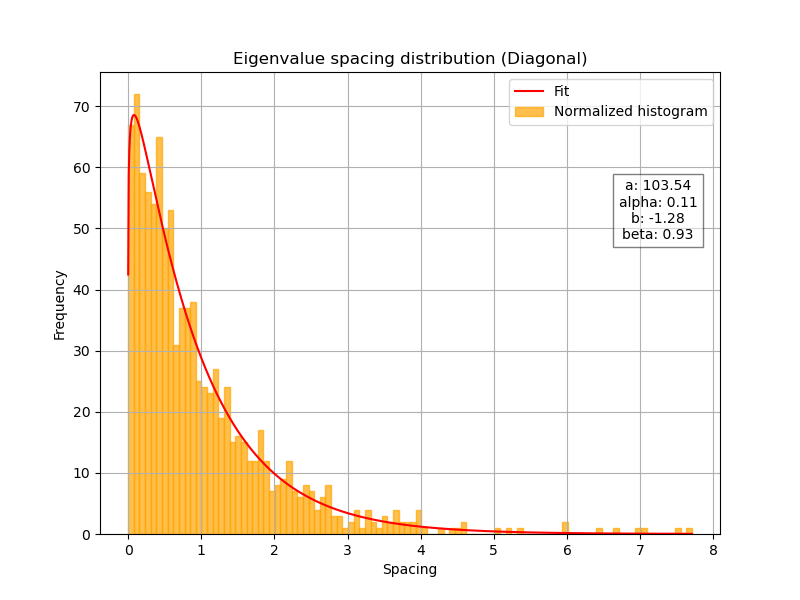
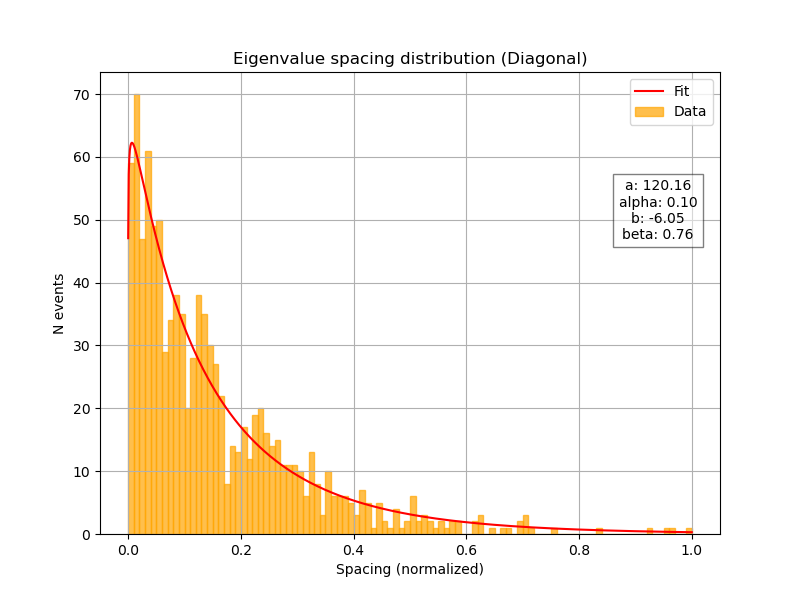
Ex3 done,only polish

diff --git a/hw/hw3/random_mat.py b/hw/hw3/random_mat.py
@@ -38,48 +38,117 @@ def real_diag(N):
     
     return D
 
-def spacingH(H):
+def spacingH(H, trim=True):
     
     # Compute and order the eigenvalues
     eigvals = np.linalg.eigvalsh(H) # Returns the eigenvalues already in ascending order
+    
+    if trim:
+        eigvals = eigvals[:eigvals.shape[0] - 1]
     
     spacing = []
     for i in range(eigvals.shape[0] - 1):       # - 1 otherwise index out-of-bounds
         s = eigvals[i+1] - eigvals[i]
         spacing.append(s)
     
-    spacing_norm = spacing / np.mean(spacing)
+    spacing_norm = spacing / np.max(spacing)
     
     return spacing_norm, eigvals
     
-def spacingD(D):
+def spacingD(D, trim=True):
     
     # Compute and order the eigenvalues
     eigvals = np.linalg.eigvals(D) # Returns the eigenvalues already in ascending order
     eigvals = np.sort(eigvals)
     
+    if trim:
+        eigvals = eigvals[:eigvals.shape[0] - 1]
+    
     spacing = []
     for i in range(eigvals.shape[0] - 1):       # - 1 otherwise index out-of-bounds
         s = eigvals[i+1] - eigvals[i]
         spacing.append(s)
     
-    spacing_norm = spacing / np.mean(spacing)
+    spacing_norm = spacing / np.max(spacing)
     
     return spacing_norm, eigvals
     
-# TEST
-'''
-print(spacingH(gen_herm(10)))
-print(spacingD(real_diag(10)))
-'''
 
 ########################## RANDOM MATRIX THEORY ###########################
+
+
+
+# THEORETICAL ANALYSIS
+
+# Wigner function
+import numpy as np
+
+def wigner(s, a, alpha, b, beta):
+    # s: spacing
+    
+    exponent = b * (s ** beta)
+    
+    # Check for large exponents
+    if np.any(exponent > 700):  # 700 is a safe threshold for most floating-point implementations
+        print('Exponent too large. Risk of overflow. Returning infinity.')
+        return np.inf  # or handle it in a way that makes sense for your application
+    
+    return a * (s ** alpha) * np.exp(exponent)
+
+def fitnplot(data, func, n_bins, mode, p0=[1,1,-1,1]):
+    
+    # Check for the right mode being input
+    if mode != 'Hermitian' and mode != 'Diagonal':
+        print('Mode not recognized. Sustained modes: \'Hermitian\', \'Diagonal\'.')
+        exit(1)
+
+    # Indicate the studied mode
+    print('MODE:', mode)
+
+    # Compute the range of the normalized spacing
+    deltaS = (np.min(data), np.max(data))
+    s_vals = np.linspace(deltaS[0], deltaS[1], 1000)
+
+    # Compute and normalize the counts for each bin for the two matrices
+    counts, bin_edges = np.histogram(data, bins=n_bins, range=deltaS, density=False)
+    bin_centers = (bin_edges[:-1] + bin_edges[1:]) / 2
+
+    # Normalize counts
+    #counts_norm = counts / counts.sum()
+    
+    # Fit with the given function
+    params, params_cov = curve_fit(func, bin_centers, counts, p0=p0, maxfev=1000) # Pay attention to correctly initilialize the parameters (p0)
+
+    # Print the best parameters
+    print('BEST PARAMETERS retrieved from the fit:\n')
+    print('a:', params[0]); print('alpha:', params[1]); print('b:', params[2]); print('beta:', params[3])
+    
+    # Print the covariance matrix
+    print(f'COVARIANCE MATRIX:\n {params_cov}\n')
+    
+    
+    # Plotting
+    plt.figure(figsize=(8, 6))
+    plt.bar(bin_centers, counts, width=(bin_edges[1] - bin_edges[0]), color='orange', edgecolor='orange', alpha=0.7, label='Data')
+    plt.plot(s_vals, func(s_vals, params[0], params[1], params[2], params[3]), color='red', label='Fit')
+    plt.text(0.9, 0.7, f'a: {params[0]:.2f}\nalpha: {params[1]:.2f}\nb: {params[2]:.2f}\nbeta: {params[3]:.2f}', horizontalalignment='center', verticalalignment='center', transform=plt.gca().transAxes, bbox=dict(facecolor='white', alpha=0.5)) # add a box for the parameters
+    plt.xlabel('Spacing (normalized)')
+    plt.ylabel('N events')
+    plt.title(f'Eigenvalue spacing distribution ({mode})')
+    plt.legend()
+    plt.grid()
+
+    plt.savefig(f'MatPlots/{mode}_mat.png')
+    #plt.show()
+    
+###### TEST
 
 # Size
 N = 1000
 
 # Set the seed
-np.random.seed(12345)
+#np.random.seed(12345)
+np.random.seed(11111)
 
 #  Full random hermitian matrix
 data_h, eig_r = spacingH(gen_herm(N))
@@ -91,90 +160,39 @@ data_d, eig_d = spacingD(real_diag(N))
 #print(data_d)
 #print(eig_d)
 
+test_plot = False
 
-#plt.figure(figsize=(10, 6))
-plt.hist(data_h[0:data_h.shape[0] - 1], bins=30, color="steelblue", edgecolor="black", alpha=0.4, label="Random Hermitian") # I neglect the first eigenvalue
-plt.xlabel('Spacing')
-plt.ylabel('Frequency')
-plt.title('Eigenvalue spacing distribution')
-plt.legend()
-plt.grid()
-
-# Save to file
-if not os.path.exists('MatPlots'):
-    os.makedirs('MatPlots')
-
-plt.savefig('MatPlots/herm_mat.png')
-plt.show()
-
-plt.hist(data_d, bins=30, color='orange', edgecolor='black', alpha=0.4, label='Diagonal')
-plt.xlabel('Spacing')
-plt.ylabel('Frequency')
-plt.title('Eigenvalue spacing distribution')
-plt.legend()
-plt.grid()
-
-plt.savefig('MatPlots/diag_mat.png')
-plt.show()
-
-# THEORETICAL ANALYSIS
-
-# Wigner function
-def wigner(s, a, alpha, b, beta):
-    # s: spacing
-    
-    return a*(s**alpha)*np.exp(b*(s**beta))
-
-def fitnplot(data, func, p0, n_bins, mode):
-    
-    # Check for the right mode being input
-    if mode != 'Hermitian' and mode != 'Diagonal':
-        print('Mode not recognized. Sustained modes: \'Hermitian\', \'Diagonal\'.')
-        exit(1)
-
-
-    # Compute the range of the normalized spacing
-    deltaS = (np.min(data), np.max(data))
-    s_vals = np.linspace(deltaS[0], deltaS[1], 1000)
-
-    # Compute and normalize the counts for each bin for the two matrices
-    counts, bin_edges = np.histogram(data, bins=n_bins, range=deltaS, density=False)
-    bin_centers = (bin_edges[:-1] + bin_edges[1:]) / 2
-
-    # Calculate the probability distribution
-    #prob = counts / (N*deltaS)
-    
-    # Fit with the given function
-    params, params_cov = curve_fit(func, bin_centers, counts, p0=p0, maxfev=5000) # Pay attention to correctly initilialize the parameters (p0)
-
-    # Print the best parameters
-    print('BEST PARAMETERS retrieved from the fit:\n')
-    print('a:', params[0]); print('alpha:', params[1]); print('b:', params[2]); print('beta:', params[3]);
-    
-    # Print the covariance matrix
-    print(f'COVARIANCE MATRIX:\n {params_cov}\n')
-    
-    plt.figure(figsize=(8, 6))
-    plt.bar(bin_centers, counts, width=(bin_edges[1] - bin_edges[0]), color='orange', edgecolor='orange', alpha=0.7, label='Normalized histogram')
-
-    
-    # Plotting
-    #plt.hist(data, bins=n_bins, color='orange', edgecolor='orange', alpha=0.4, label='Data')
-    plt.plot(s_vals, func(s_vals, params[0], params[1], params[2], params[3]), color='red', label='Fit')
-    plt.text(0.9, 0.7, f'a: {params[0]:.2f}\nalpha: {params[1]:.2f}\nb: {params[2]:.2f}\nbeta: {params[3]:.2f}', horizontalalignment='center', verticalalignment='center', transform=plt.gca().transAxes, bbox=dict(facecolor='white', alpha=0.5)) # add a box for the parameters
+if test_plot:
+    #plt.figure(figsize=(10, 6))
+    plt.hist(data_h, bins=30, color="steelblue", edgecolor="black", alpha=0.4, label="Random Hermitian") 
     plt.xlabel('Spacing')
     plt.ylabel('Frequency')
-    plt.title(f'Eigenvalue spacing distribution ({mode})')
+    plt.title('Eigenvalue spacing distribution')
     plt.legend()
     plt.grid()
 
-    plt.savefig(f'MatPlots/{mode}_mat.png')
+    # Save to file
+    if not os.path.exists('MatPlots'):
+        os.makedirs('MatPlots')
+
+    plt.savefig('MatPlots/herm_mat.png')
     plt.show()
-    
-# TEST
+
+    plt.hist(data_d, bins=30, color='orange', edgecolor='black', alpha=0.4, label='Diagonal')
+    plt.xlabel('Spacing')
+    plt.ylabel('Frequency')
+    plt.title('Eigenvalue spacing distribution')
+    plt.legend()
+    plt.grid()
+
+    plt.savefig('MatPlots/diag_mat.png')
+    plt.show()
 
 # Number of bins
 N_bins = 100
 
-fitnplot(data_h, wigner, [1,2,-2,1], N_bins, mode='Hermitian')
-fitnplot(data_d, wigner, [0.6,0.2,-2,0.6], N_bins, mode='Diagonal')
+#print('DATA HERMITIAN:\n',data_h)
+print('DATA DIAGONAL:\n',data_d)
+
+fitnplot(data_h, wigner, p0=[1,1,-1,1], n_bins=N_bins, mode='Hermitian')    # p0=[1,1,-1,1] 
+fitnplot(data_d, wigner, p0=[1,1,-1,1], n_bins=N_bins, mode='Diagonal')     # p0=[1,1,-1,1]
